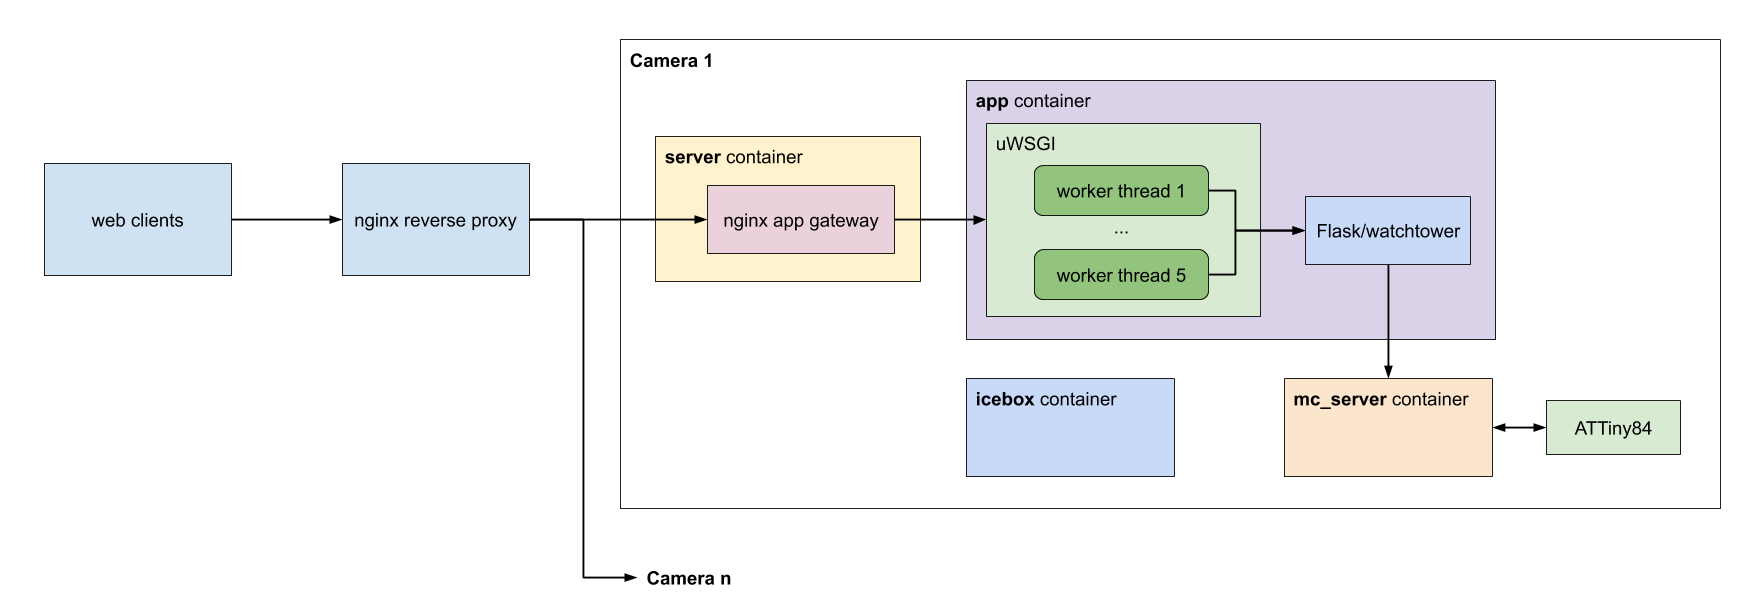
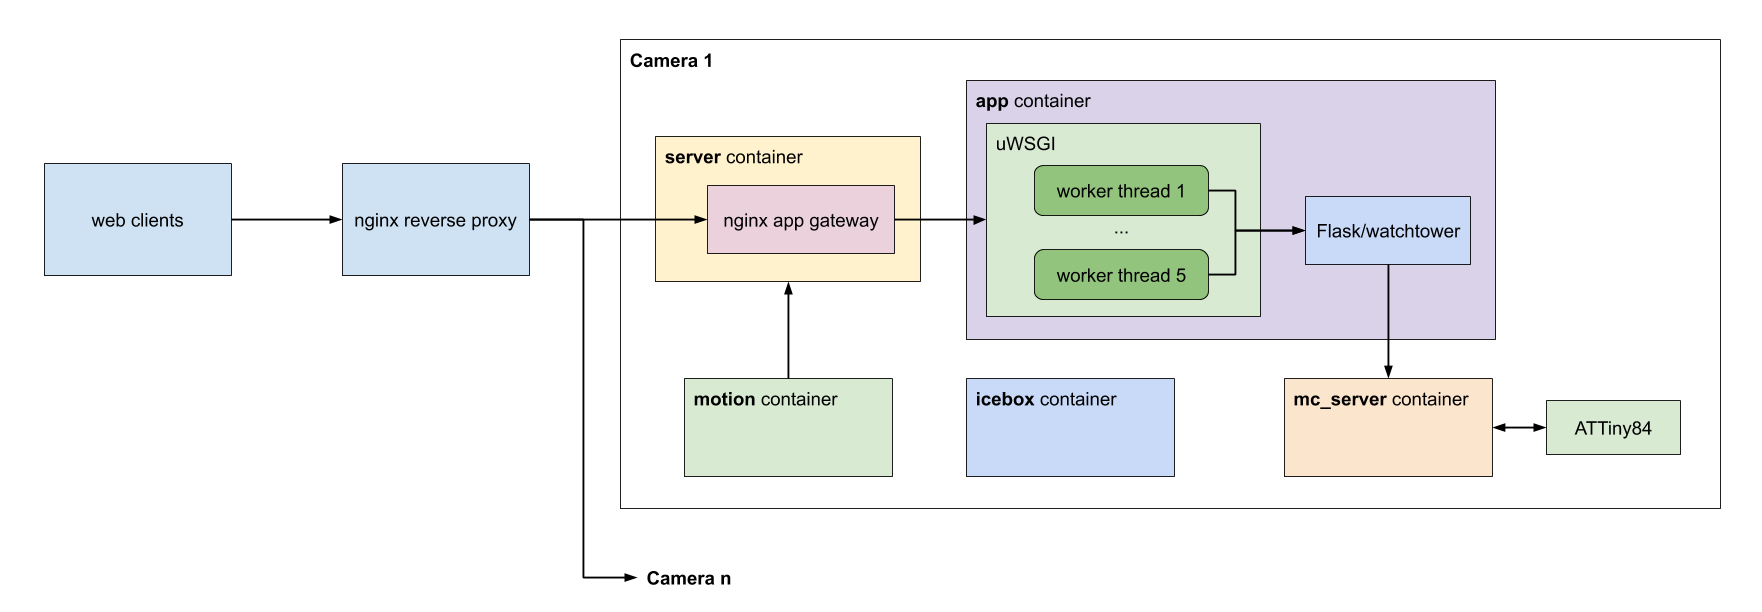
Updates with the motion container changes.

Changed region(s): [[0.3746, 0.5899, 0.5306, 0.8072]]

diff --git a/README.md b/README.md
@@ -76,7 +76,7 @@ There is only a single configuration option for the web app in the config JSON f
 
 ### 3. Motion Detection
 
-Frames from the camera feed are constantly monitored for changes using the open source [Motion](https://motion-project.github.io/) project. When Watchtower is started, the `motion` container connects to the `app` container using an MJPEG API only exposed to other Watchtower containers. If a large enough area of pixels has significantly changed, the `motion` container notifies the `app` container and an event is triggered. A JPEG capturing the instant that motion was detected will be saved along with the h264 video.
+Frames from the camera feed are constantly monitored for changes using the open source [Motion](https://motion-project.github.io/) project. When Watchtower is started, the `motion` container connects to the `app` container using an MJPEG API only exposed to other Watchtower containers. This data is routed through the `server` container. While reading the MJPEG stream, if a large enough area of pixels has significantly changed, the `motion` container notifies the `app` container and an event is triggered. A JPEG capturing the instant that motion was detected will be saved along with the h264 video.
 
 A nice feature of Motion is that it can learn the areas of the video that are subject to constant movement, like leaves swaying in the wind. It can also handle large changes in light that could have resulted from a light switch being flipped.
 
